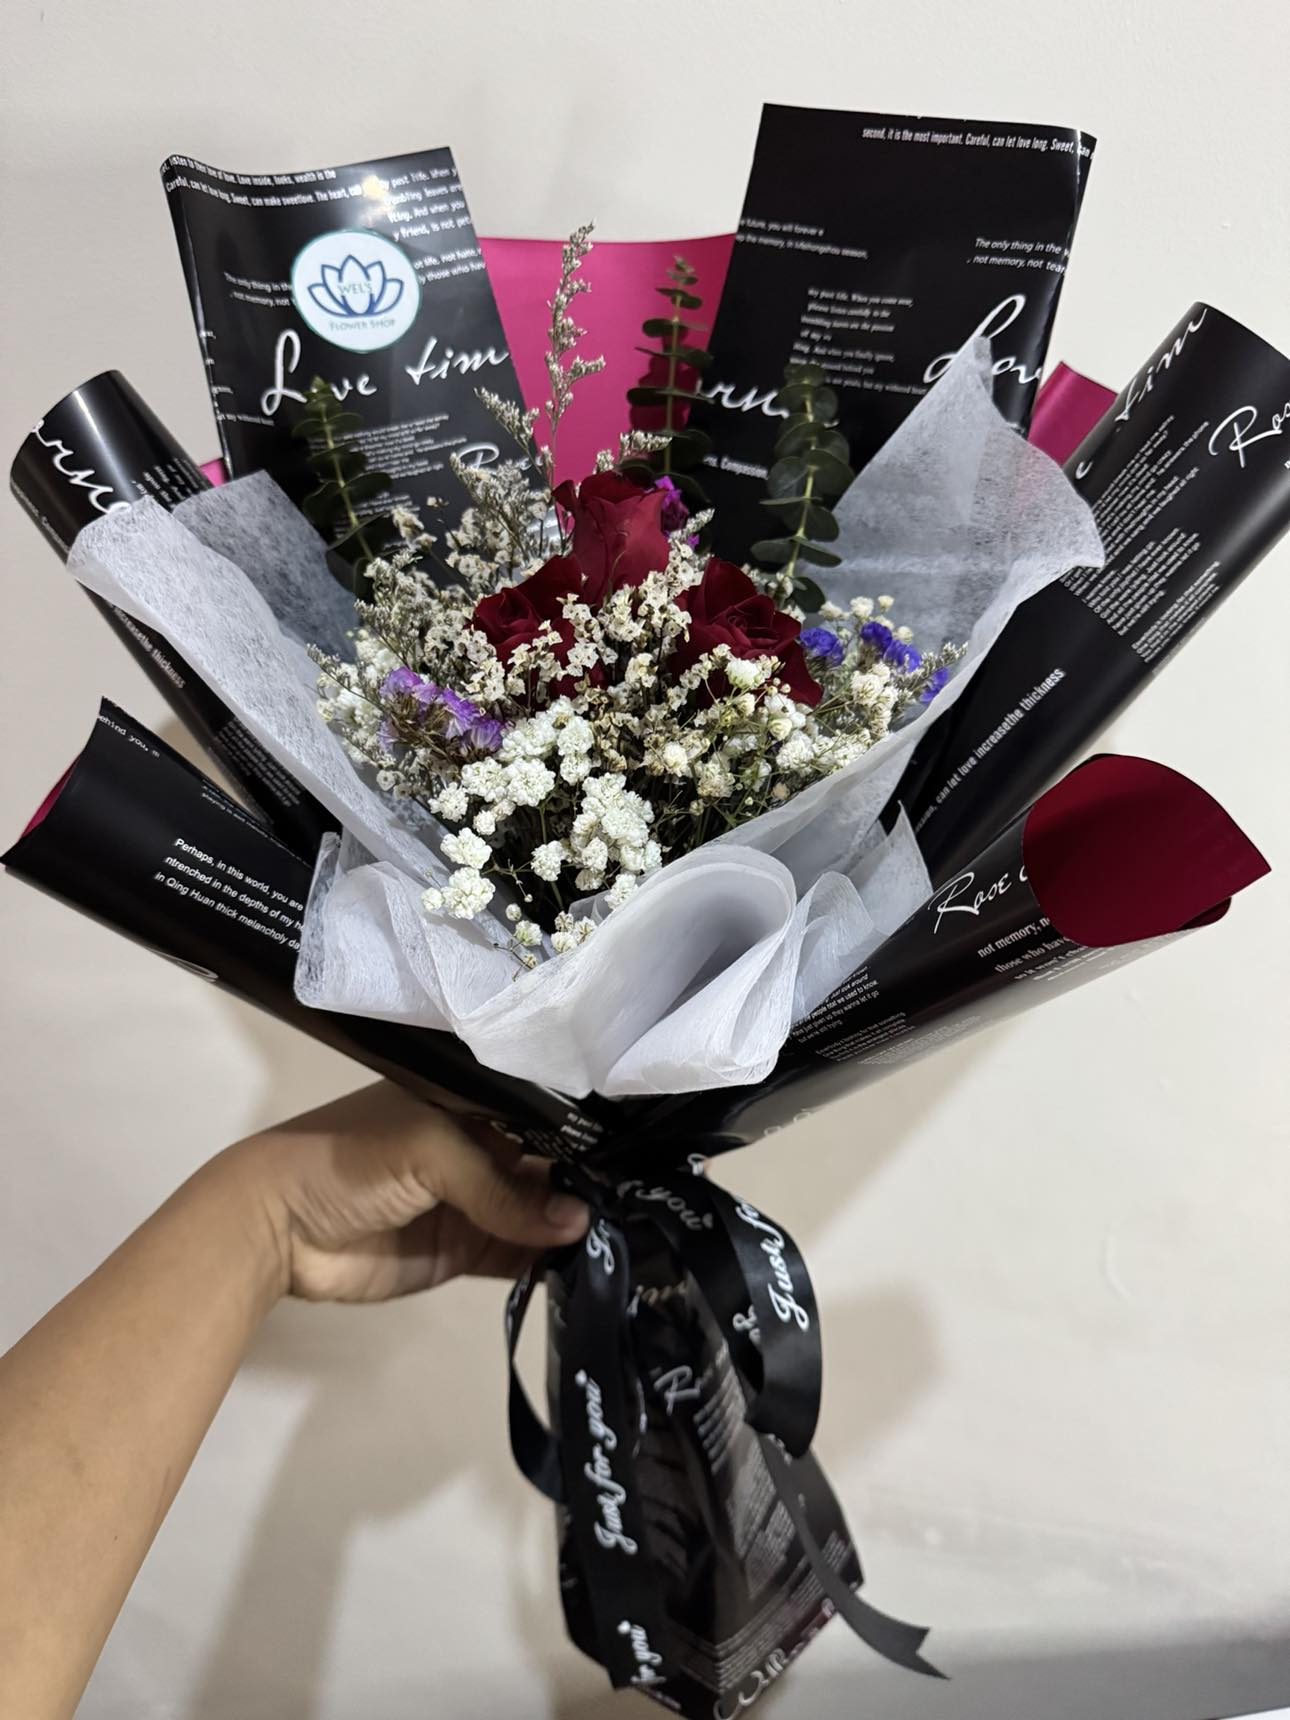
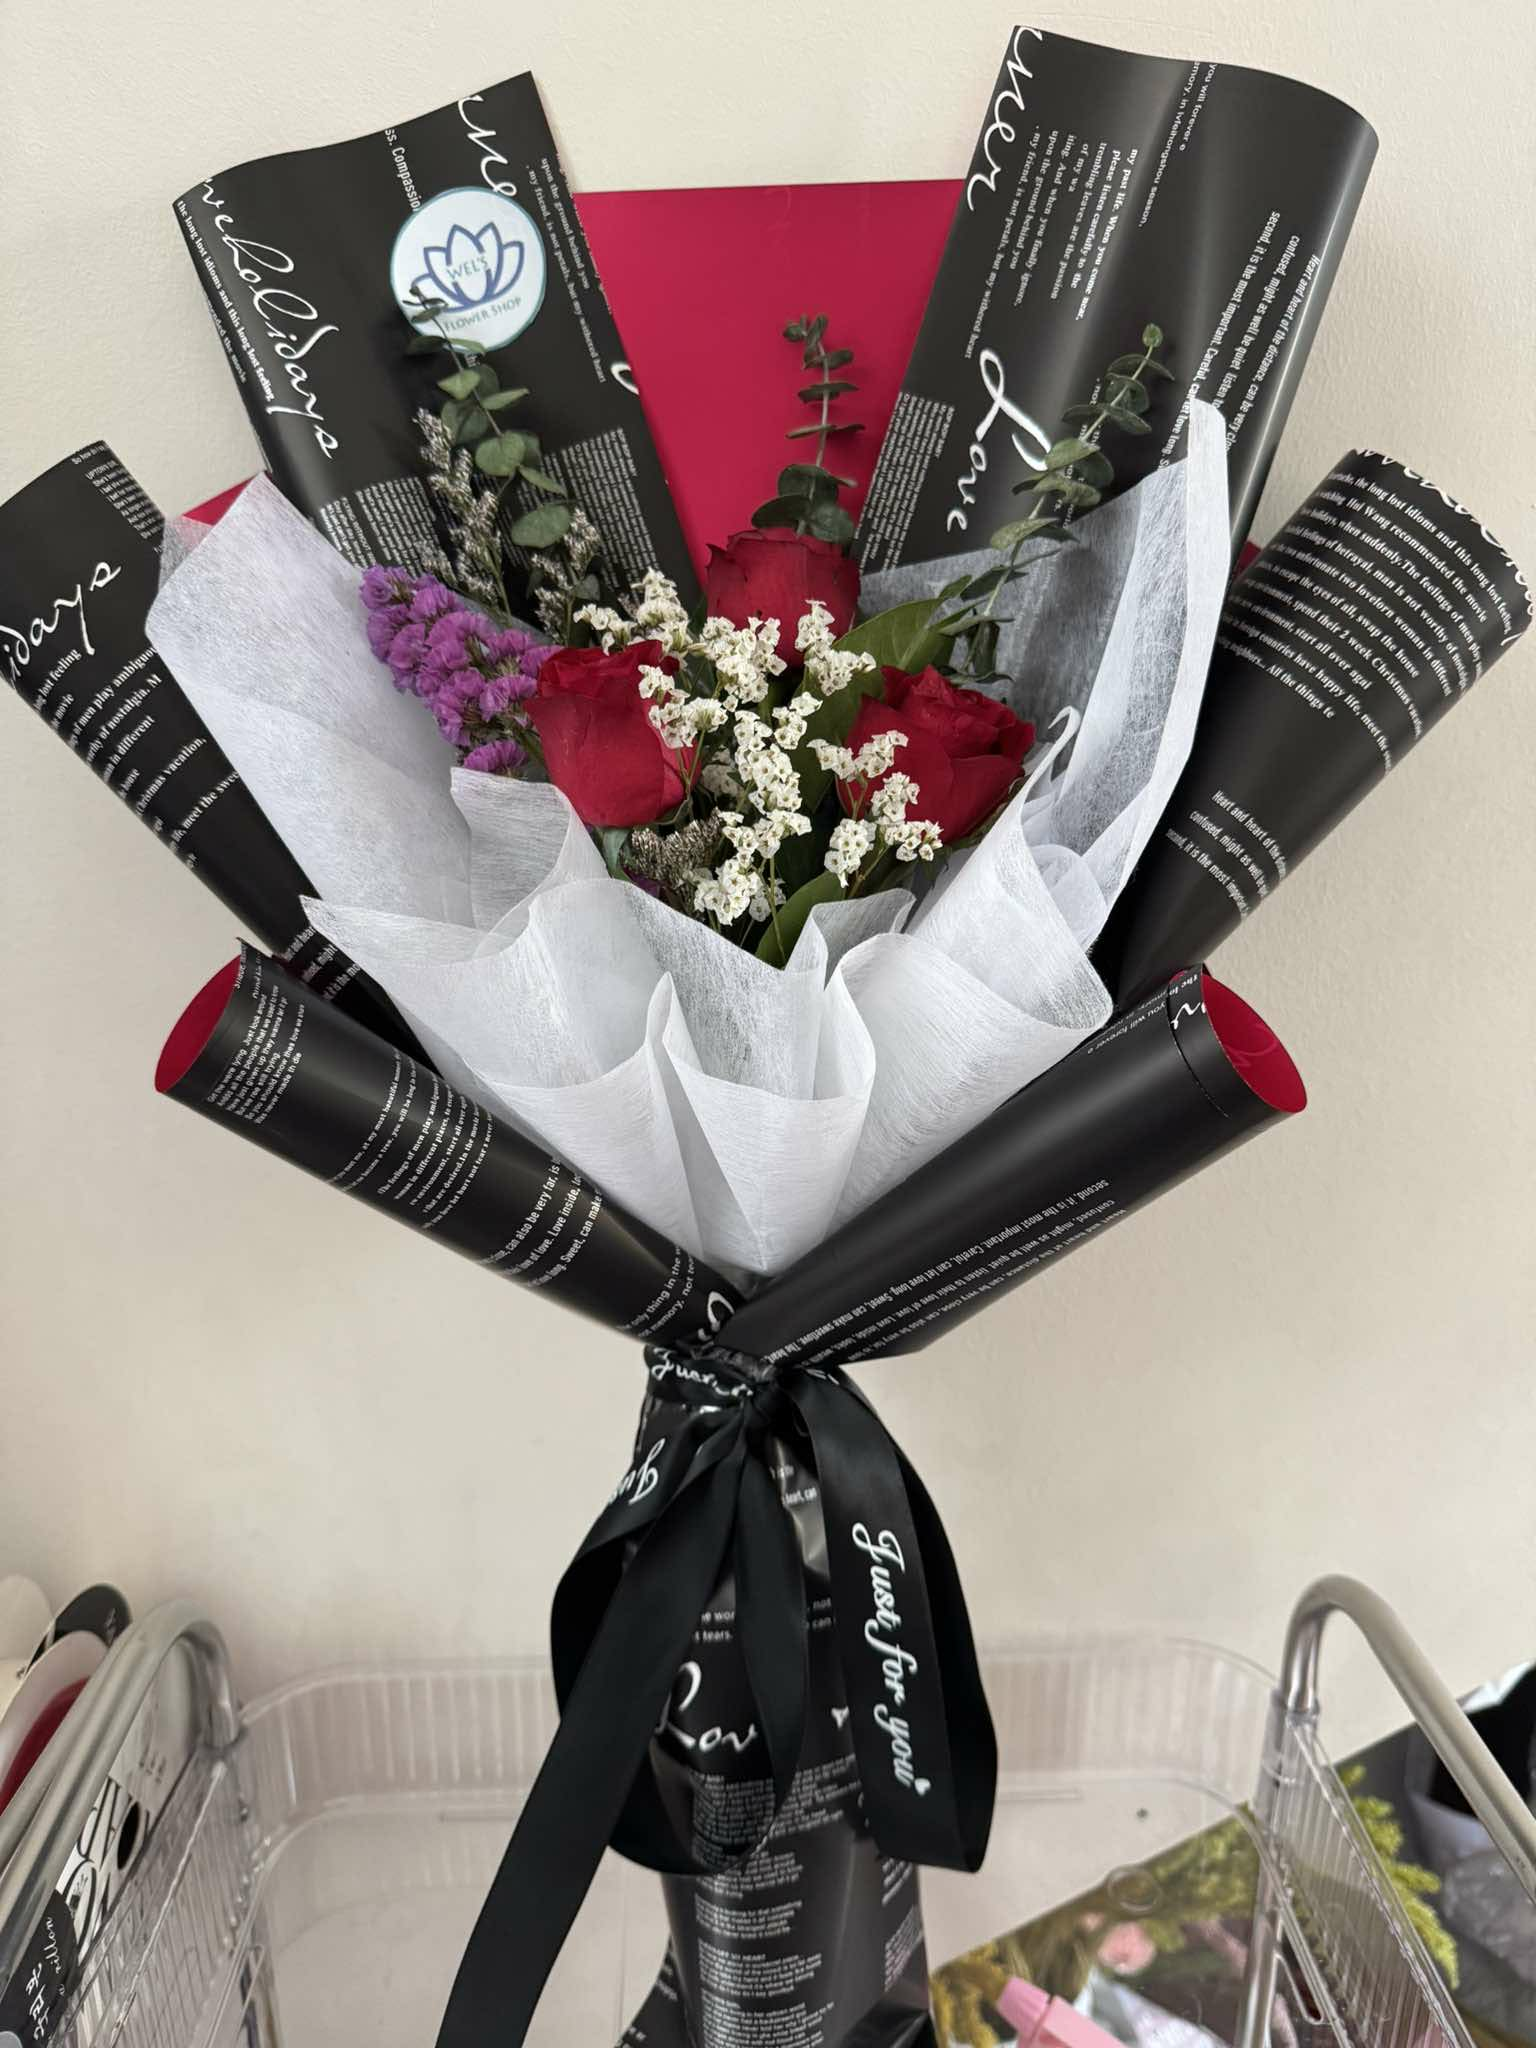
full screen image with loader

diff --git a/src/components/elements/modal/index.tsx b/src/components/elements/modal/index.tsx
@@ -1,6 +1,6 @@
 'use client';
 
-import { useState } from 'react';
+import { useState, useEffect } from 'react';
 import Image from 'next/image';
 
 interface ModalProps {
@@ -13,18 +13,48 @@ interface ModalProps {
 
 export default function ArrangementModal({ isOpen, onClose, arrangementImages, arrangementTitle, arrangementDescription }: ModalProps) {
   const [currentImageIndex, setCurrentImageIndex] = useState(0);
+  const [isImageLoading, setIsImageLoading] = useState(true);
+  const [isFullscreen, setIsFullscreen] = useState(false);
 
   if (!isOpen) return null;
 
   const nextImage = () => {
+    setIsImageLoading(true);
     setCurrentImageIndex((prev) => (prev + 1) % arrangementImages.length);
   };
 
   const prevImage = () => {
+    setIsImageLoading(true);
     setCurrentImageIndex((prev) => 
       prev === 0 ? arrangementImages.length - 1 : prev - 1
     );
   };
+
+  const openFullscreen = () => {
+    setIsImageLoading(true);
+    setIsFullscreen(true);
+  };
+
+  const closeFullscreen = () => {
+    setIsFullscreen(false);
+    setIsImageLoading(false);
+  };
+
+  // Close fullscreen on Escape and lock body scroll while fullscreen
+  useEffect(() => {
+    const onKey = (e: KeyboardEvent) => {
+      if (e.key === 'Escape') {
+        if (isFullscreen) closeFullscreen();
+        else onClose();
+      }
+    };
+    document.addEventListener('keydown', onKey);
+    if (isFullscreen) document.body.style.overflow = 'hidden';
+    return () => {
+      document.removeEventListener('keydown', onKey);
+      document.body.style.overflow = '';
+    };
+  }, [isFullscreen]);
 
   return (
     <div className="fixed inset-0 bg-black bg-opacity-50 flex items-center justify-center z-50 h-screen overflow-auto">
@@ -42,12 +72,23 @@ export default function ArrangementModal({ isOpen, onClose, arrangementImages, a
           {/* Image area (square on md+) */}
           <div className="w-full md:w-1/2">
             <div className="w-full aspect-square relative overflow-hidden rounded-lg bg-gray-100">
-              <Image
-                src={arrangementImages[currentImageIndex]}
-                alt={`${arrangementTitle} - Image ${currentImageIndex + 1}`}
-                fill
-                className="object-contain"
-              />
+              <div className="w-full h-full cursor-zoom-in" onClick={openFullscreen}>
+                <Image
+                  src={arrangementImages[currentImageIndex]}
+                  alt={`${arrangementTitle} - Image ${currentImageIndex + 1}`}
+                  fill
+                  className="object-contain"
+                  onLoadingComplete={() => setIsImageLoading(false)}
+                />
+              </div>
+
+              {/* Loading overlay */}
+              {isImageLoading && (
+                <div className="absolute inset-0 flex items-center justify-center bg-white/50">
+                  <div className="w-12 h-12 rounded-full border-4 border-gray-300 border-t-transparent animate-spin" aria-hidden="true" />
+                  <span className="sr-only">Loading image</span>
+                </div>
+              )}
 
               {/* Navigation buttons (overlay) */}
               <button
@@ -102,6 +143,61 @@ export default function ArrangementModal({ isOpen, onClose, arrangementImages, a
           </div>
         </div>
       </div>
+      {/* Fullscreen viewer */}
+      {isFullscreen && (
+        <div className="fixed inset-0 z-60 bg-black bg-opacity-90 flex items-center justify-center">
+          <button
+            onClick={closeFullscreen}
+            className="absolute top-4 right-4 text-white text-4xl z-70"
+            aria-label="Close fullscreen"
+          >
+            ×
+          </button>
+
+          <div className="relative w-full h-full flex items-center justify-center">
+            <div className="w-full h-full flex items-center justify-center">
+              <div className="relative max-w-[100vw] max-h-[100vh] w-full h-full">
+                <Image
+                  src={arrangementImages[currentImageIndex]}
+                  alt={`${arrangementTitle} - Image ${currentImageIndex + 1}`}
+                  fill
+                  className="object-contain"
+                  onLoadingComplete={() => setIsImageLoading(false)}
+                />
+
+                {/* Loading overlay for fullscreen */}
+                {isImageLoading && (
+                  <div className="absolute inset-0 flex items-center justify-center bg-black/50">
+                    <div className="w-16 h-16 rounded-full border-4 border-white border-t-transparent animate-spin" aria-hidden="true" />
+                    <span className="sr-only">Loading image</span>
+                  </div>
+                )}
+
+                {/* Prev/Next in fullscreen */}
+                <button
+                  onClick={() => { setIsImageLoading(true); prevImage(); }}
+                  className="absolute left-6 top-1/2 transform -translate-y-1/2 bg-white bg-opacity-10 hover:bg-opacity-30 rounded-full p-3 text-white"
+                  aria-label="Previous image"
+                >
+                  <svg className="w-6 h-6" fill="none" stroke="currentColor" viewBox="0 0 24 24">
+                    <path strokeLinecap="round" strokeLinejoin="round" strokeWidth={2} d="M15 19l-7-7 7-7" />
+                  </svg>
+                </button>
+
+                <button
+                  onClick={() => { setIsImageLoading(true); nextImage(); }}
+                  className="absolute right-6 top-1/2 transform -translate-y-1/2 bg-white bg-opacity-10 hover:bg-opacity-30 rounded-full p-3 text-white"
+                  aria-label="Next image"
+                >
+                  <svg className="w-6 h-6" fill="none" stroke="currentColor" viewBox="0 0 24 24">
+                    <path strokeLinecap="round" strokeLinejoin="round" strokeWidth={2} d="M9 5l7 7-7 7" />
+                  </svg>
+                </button>
+              </div>
+            </div>
+          </div>
+        </div>
+      )}
     </div>
   );
 } 
